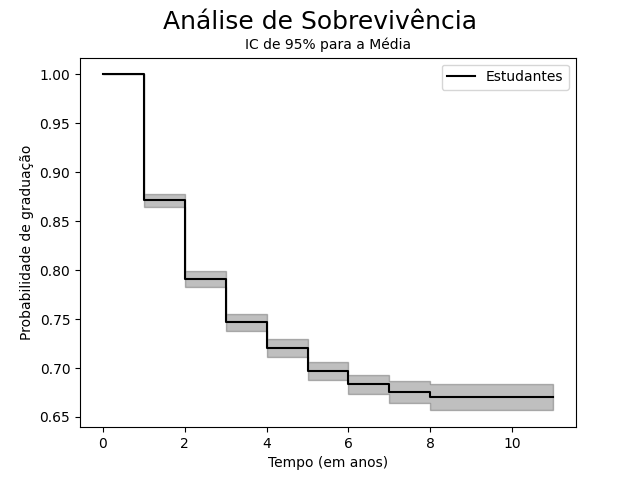
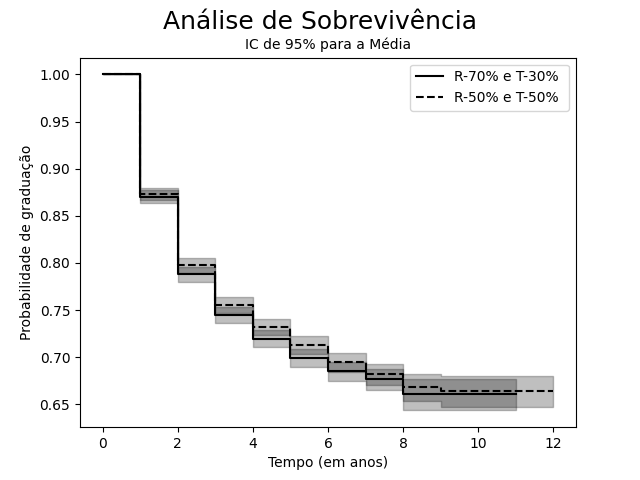
Experimentos

diff --git a/generate_mc.py b/generate_mc.py
@@ -174,8 +174,8 @@ p = [[A1T, A1toA2, 0.0, 0.0, 0.0, A1toA1R, 0.0, 0.0, 0.0, 0.0, 0.0, 0.0, 0.0, A1
 #      [0.0, 0.0, 0.0, 0.0, 0.0, 1.0, 0.0],
 #      [0.0, 0.0, 0.0, 0.0, 0.0, 0.0, 1.0]]
 
-taxaRetido = 0.5
-taxaTrancado = 0.5
+taxaRetido = 0.7
+taxaTrancado = 0.3
 
 # T - representado por self loop
 A1T = 0.17 * taxaTrancado * taxaTrancar
@@ -186,8 +186,8 @@ A3T = 0.08 * taxaTrancado * taxaTrancar
 A3RT = A3T * taxaTrancarR * taxaProporcaoTrancar
 A4T = 0.37 * taxaTrancado * taxaTrancar
 A4RT = A4T * taxaTrancarR * taxaProporcaoTrancar
-A5RT = 0.37/2 * taxaTrancado * taxaTrancarR
-A6RT = 0.37/3 * taxaTrancado * taxaTrancarR
+A5RT = 0.37 * taxaTrancado * taxaTrancarR
+A6RT = 0.37/2 * taxaTrancado * taxaTrancarR
 
 # Reter
 A1toA1R = 0.17 * taxaRetido * taxaRetencao
@@ -204,8 +204,8 @@ A3toE = 0.04 * taxaEvasao
 A3RtoE = A3toE * taxaEvasaoR * taxaProporcaoEvasao
 A4toE = 0.02 * taxaEvasao
 A4RtoE = A4toE * taxaEvasaoR * taxaProporcaoEvasao
-A5RtoE = 0.02/2 * taxaEvasaoR
-A6RtoE = 0.02/3 * taxaEvasaoR
+A5RtoE = 0.02 * taxaEvasaoR
+A6RtoE = 0.02/2 * taxaEvasaoR
 
 # Próximo estado
 A1toA2 = 1 - A1toA1R - A1toE - A1T
@@ -284,7 +284,7 @@ def aplicar_parametros(p):
 # p = transition_matrix(t)
 
 
-# p = np.round(p, 4)
+p = np.round(p, 4)
 generate_csv_and_diagram(nomeArquivo, states, p)
 
 

diff --git a/simulation.py b/simulation.py
@@ -224,12 +224,22 @@ quantAlunos = 10000
 
 
 
+# Simulação Boumi
+# time, event = Simu(quantAlunos, 'matrix/matrixBoumiAlterado.csv')
+# time1, event1 = Simu(quantAlunos, 'matrix/matrixBoumiAlterado1.csv')
+#
+# sobrevivencia([time], [event], ['Estudantes'], "Análise de Sobrevivência")
+# sobrevivencia([time1], [event1], ['Estudantes'], "Análise de Sobrevivência")
+#
+# times = [time, time1]
+# events = [event, event1]
+# labels = ["R-70% e T-30% ", "R-50% e T-50%"]
+#
+# sobrevivencia(times, events, labels, "Análise de Sobrevivência")
+
+
 # Simulação Geral
-time, event = Simu(quantAlunos, 'matrix/matrixBoumiAlterado.csv')
+time, event = Simu(quantAlunos, 'matrix/matrixPadrao.csv')
 
 sobrevivencia([time], [event], ['Estudantes'], "Análise de Sobrevivência")
-
-
-
-
 
